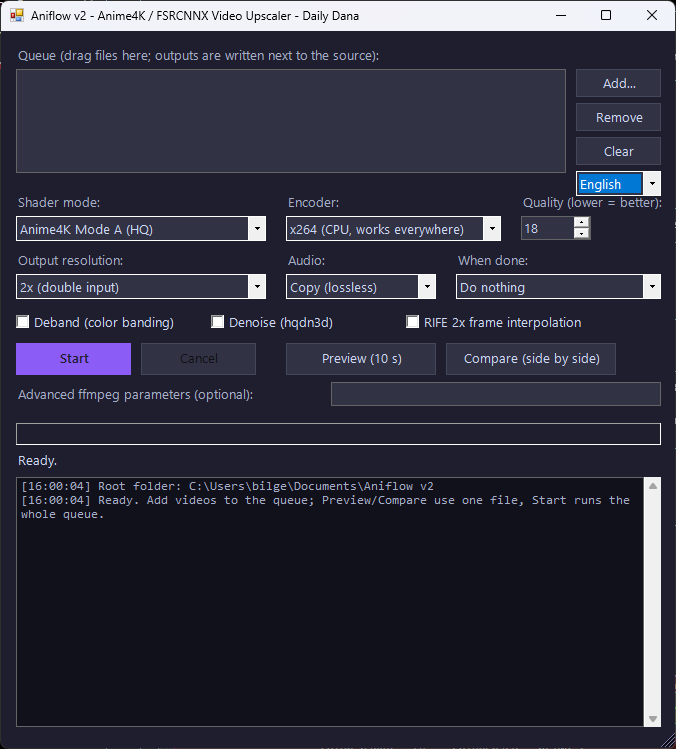
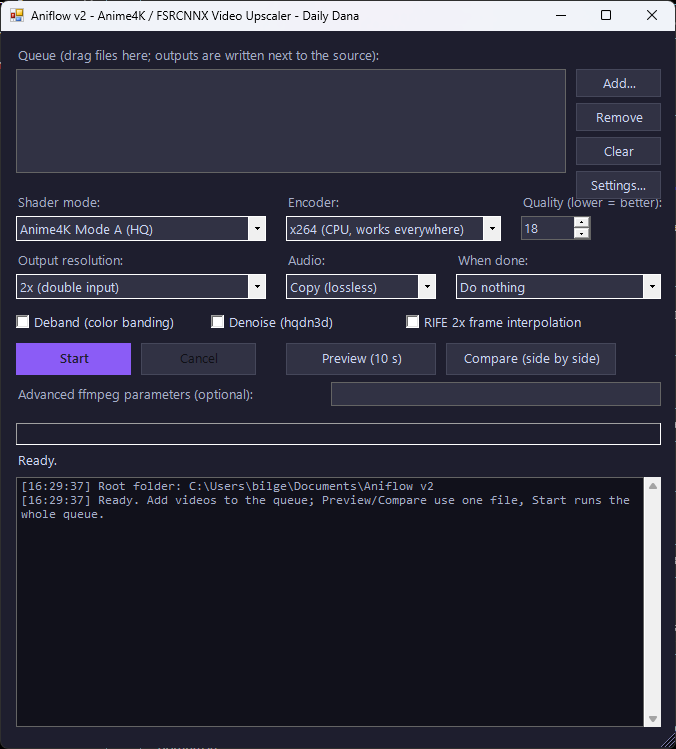
v2: settings window with persistent JSON config
New Settings dialog (button replaces the language combo; language moved
inside): output folder/suffix/container (MKV or MP4 with mov_text subs and
attachment handling), x264/x265 preset, AI model choice (4x-only guard for
non-animevideov3), tile size, GPU index, custom temp root for AI frames,
keep-temp debug switch, RIFE model + GPU threads. All persisted to
%APPDATA%\Aniflow.settings.json; old Aniflow.lang migrated. Stream mapping
centralized in Get-StreamArgs, output naming in Get-OutPath.

Changed region(s): [[0.8388, 0.215, 0.9941, 0.2764], [0.9941, 0.8905, 1.0, 1.0], [0.0621, 0.6449, 0.1243, 0.6756]]

diff --git a/README.md b/README.md
@@ -23,6 +23,7 @@ stage that doubles the frame rate (24 → 48 fps).
 - **Preview** — process 10 seconds from the middle of the video and play it.
 - **Compare** — classic Lanczos vs. shader chain, side by side in one video.
 - **Encoders** — x264/x265 (CPU), H.264/HEVC/AV1 QSV, NVENC, AMF.
+- **Settings window** - language (English/Turkish), output folder/suffix/container (MKV/MP4), x264/x265 preset, AI model/tile size/GPU, custom temp folder for AI frames, RIFE model and GPU threads; saved to `%APPDATA%\Aniflow.settings.json`.
 - **Advanced ffmpeg parameters** box - pass any extra encoder options (e.g. `-preset veryslow`).
 - Data streams (Dolby Vision RPU) carried over alongside audio/subtitles/attachments.
 - Optional deband + denoise filters, audio copy or AAC/Opus re-encode,
